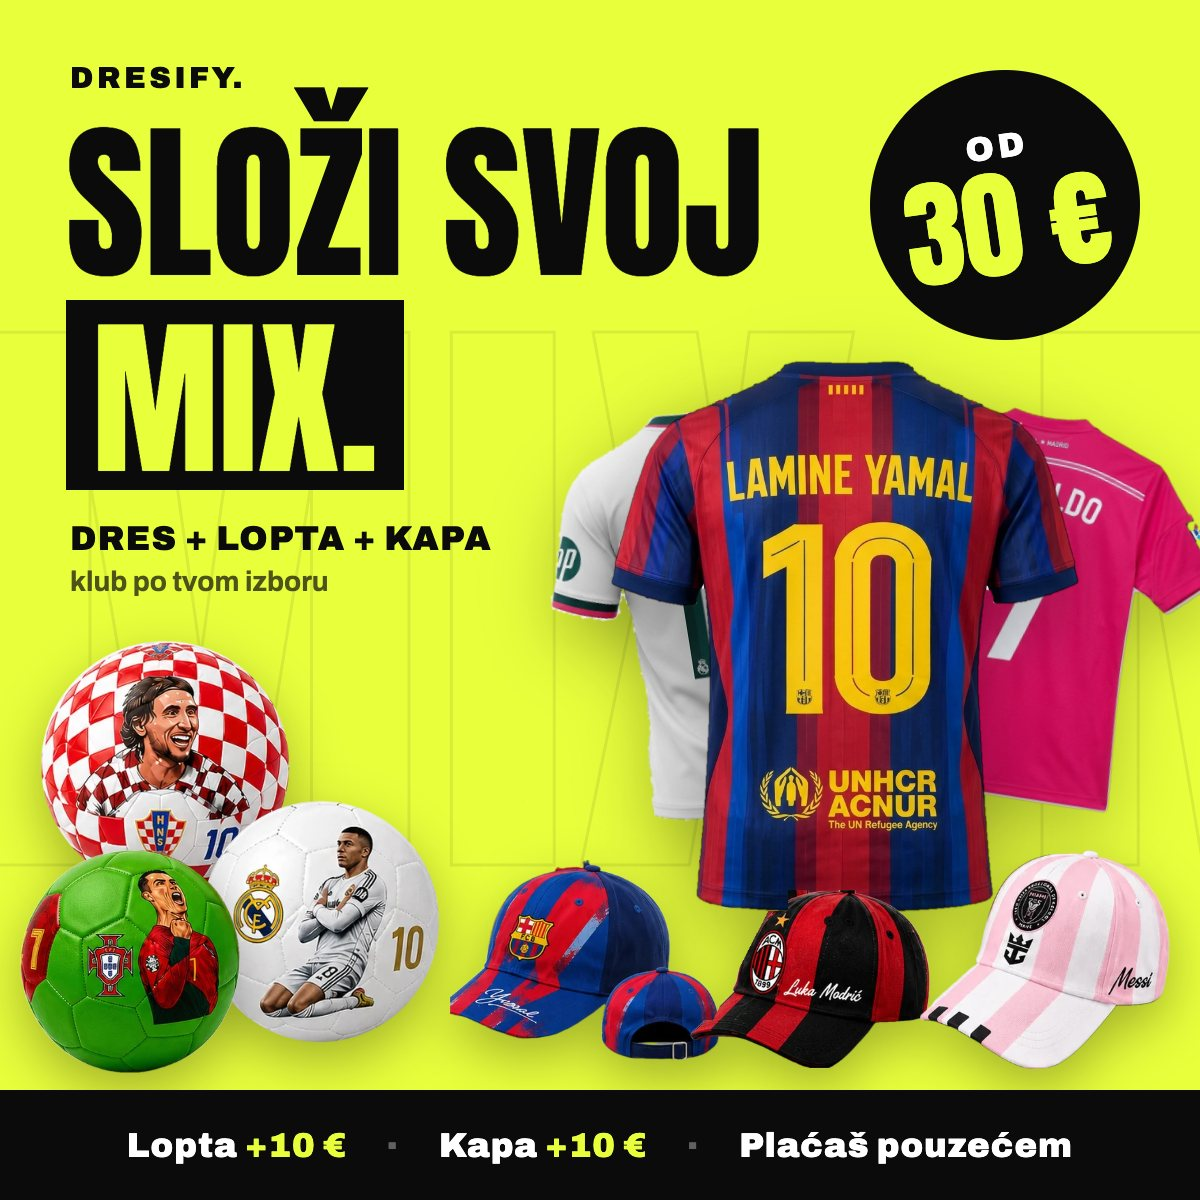
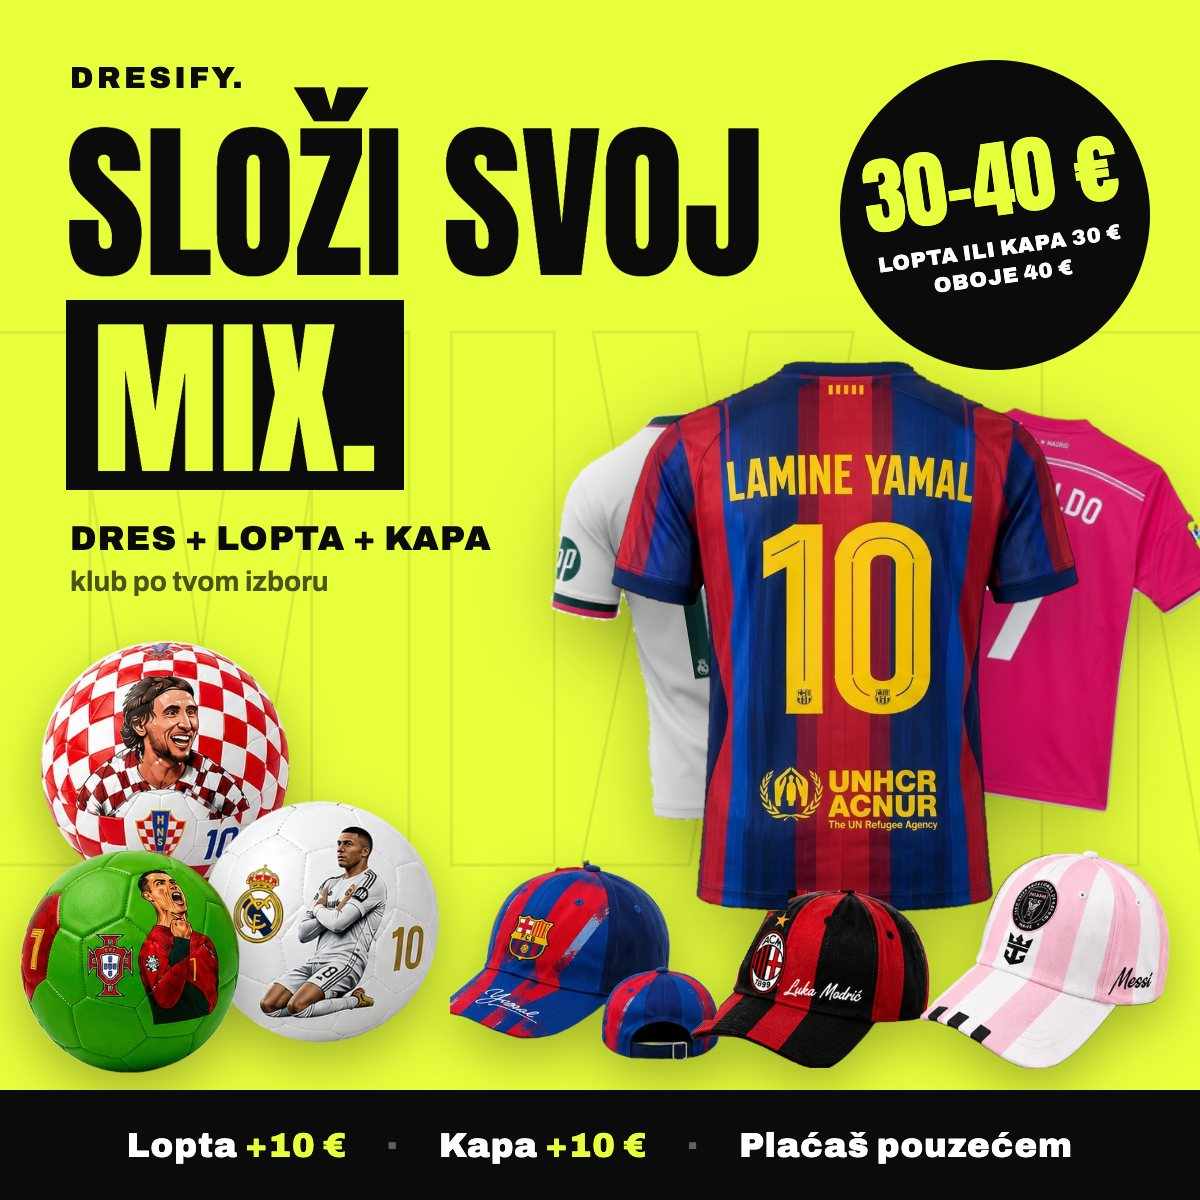
mix: popravci iz provjere (cijena dodataka uz zadanu cijenu dresa, točno prepoznavanje '+ lopta Klub', klijent ne može upisati dodatke, bez rasprodanih), cijene kao raspon 30–40 €, mix i uz trenirke

Changed region(s): [[0.6783, 0.0308, 0.9558, 0.3083]]

diff --git a/app/slozi-mix/page.tsx b/app/slozi-mix/page.tsx
@@ -2,7 +2,7 @@ import Image from "next/image";
 
 import { Breadcrumbs } from "@/components/site/breadcrumbs";
 import { MixJerseyChooser, type MixJersey } from "@/components/site/mix-jersey-chooser";
-import { jerseys } from "@/lib/data/jerseys";
+import { getJerseySizeOptions, jerseys } from "@/lib/data/jerseys";
 import { getJerseyGallery } from "@/lib/data/jersey-media";
 import { getCatalogProducts } from "@/lib/data/product-overrides";
 import { MIX_ADDON_PRICE_EUR, MIX_CLUBS, isMixEligible, mixImage } from "@/lib/mix";
@@ -12,13 +12,19 @@ import { repairText } from "@/lib/utils";
 export const metadata = buildMetadata({
   title: "Složi svoj mix — dres + lopta + kapa po izboru",
   description:
-    "Složi svoj nogometni mix: odaberi dres, pa dodaj loptu i/ili kapu kluba po želji. Dres + lopta ili kapa 30 €, dres + oboje 40 €. Plaćanje pouzećem, dostava po cijeloj Hrvatskoj.",
+    "Složi svoj nogometni mix: odaberi dres ili trenirku, pa dodaj loptu i/ili kapu kluba po želji. Dres + lopta ili kapa 30 €, dres + oboje 40 €. Plaćanje pouzećem, dostava po cijeloj Hrvatskoj.",
   path: "/slozi-mix",
   keywords: ["dres i lopta", "dres lopta kapa", "nogometni set", "poklon za nogometaša", "složi svoj mix"]
 });
 
 export default async function SloziMixPage() {
-  const products = (await getCatalogProducts(jerseys)).filter(isMixEligible);
+  // Samo dresovi kojima je ostala barem jedna veličina (rasprodani nemaju mix izbor).
+  const hasStock = (p: Parameters<typeof getJerseySizeOptions>[0]) => {
+    const o = getJerseySizeOptions(p);
+    const sizes = [...(o.adultsOutOfStock ? [] : o.adults), ...(o.kidsOutOfStock ? [] : o.kids)];
+    return sizes.some((s) => !o.soldOutSizes.includes(s));
+  };
+  const products = (await getCatalogProducts(jerseys)).filter((p) => isMixEligible(p) && hasStock(p));
   const list: MixJersey[] = products.map((p) => ({
     slug: p.slug,
     klub: repairText(p.klub),
@@ -38,14 +44,16 @@ export default async function SloziMixPage() {
               Složi svoj <span className="text-accent">mix</span>
             </h1>
             <p className="mt-4 text-base leading-7 text-white/65">
-              Odaberi bilo koji dres, pa mu dodaj loptu i/ili kapu — klub biraš sam. Savršen poklon za malog ili velikog navijača.
+              Odaberi bilo koji dres ili trenirku, pa dodaj loptu i/ili kapu — klub biraš sam. Savršen poklon za malog ili velikog navijača.
             </p>
             <div className="mt-5 grid max-w-md grid-cols-2 gap-2 text-sm">
               {[
                 ["Dres + lopta ili kapa", "30 €"],
                 ["Dres + lopta + kapa", "40 €"],
                 ["Dugi rukav + jedno", "40 €"],
-                ["Dugi rukav + oboje", "50 €"]
+                ["Dugi rukav + oboje", "50 €"],
+                ["Trenirka + jedno", "45 €"],
+                ["Trenirka + oboje", "55 €"]
               ].map(([l, p]) => (
                 <div key={l} className="rounded-[10px] border border-white/10 bg-[#0d0d0d] px-3 py-2.5">
                   <p className="text-white/60">{l}</p>
@@ -73,7 +81,7 @@ export default async function SloziMixPage() {
           ))}
         </div>
 
-        <h2 className="mt-10 font-heading text-2xl uppercase text-white">1. Odaberi dres</h2>
+        <h2 className="mt-10 font-heading text-2xl uppercase text-white">1. Odaberi dres ili trenirku</h2>
         <p className="mb-4 mt-1 text-sm text-white/55">Klikni dres → odaberi veličinu → dodaj loptu i/ili kapu.</p>
         <MixJerseyChooser jerseys={list} />
       </div>

diff --git a/app/api/orders/route.ts b/app/api/orders/route.ts
@@ -4,7 +4,7 @@ import { auth } from "@clerk/nextjs/server";
 import { parseOrderPayload } from "@/lib/orders";
 import { lookupPromo } from "@/lib/promo-db";
 import { phoneKey } from "@/lib/utils";
-import { SHIPPING_PRICE_EUR, FREE_SHIPPING_THRESHOLD_EUR } from "@/lib/site";
+import { SHIPPING_PRICE_EUR, FREE_SHIPPING_THRESHOLD_EUR, JERSEY_PRICE_EUR } from "@/lib/site";
 import { sendOrderNotifications, sendAdminTelegramText } from "@/lib/notifications";
 import { sendNewOrderPush } from "@/lib/push";
 import { logOrderToSheet } from "@/lib/sheets";
@@ -15,7 +15,7 @@ import { normalizeIgHandle, autoEnterGiveaway } from "@/lib/giveaway";
 import { sendCapiPurchase } from "@/lib/meta-capi";
 import { decrementSizeStock } from "@/lib/stock";
 import { bustCache } from "@/lib/cache-tags";
-import { MIX_ADDON_PRICE_EUR, addonCount, addonsText, isMixEligible, type MixAddons } from "@/lib/mix";
+import { MIX_ADDON_PRICE_EUR, addonCount, addonsText, isMixEligible, stripAddonText, type MixAddons } from "@/lib/mix";
 
 export const runtime = "nodejs";
 
@@ -47,7 +47,11 @@ function repriceItems(items: { slug: string; unitPrice: number; addons?: MixAddo
   for (const it of items) {
     const p = it.slug ? products.get(it.slug) : undefined;
     // Mix: lopta/kapa +10 € svaka — cijena kataloga + dodaci (applyMixAddons ih je već provjerio).
-    const price = typeof p?.price === "number" ? p.price + addonCount(it.addons) * MIX_ADDON_PRICE_EUR : undefined;
+    // Većina dresova nema upisanu cijenu (= zadanih 20 €), pa za mix stavke uzimamo
+    // zadanu — inače bi klijentska cijena prošla bez provjere dodataka.
+    const n = addonCount(it.addons);
+    const base = typeof p?.price === "number" ? p.price : p && n ? JERSEY_PRICE_EUR : undefined;
+    const price = typeof base === "number" ? base + n * MIX_ADDON_PRICE_EUR : undefined;
     if (typeof price === "number" && price > 0 && price !== it.unitPrice) {
       it.unitPrice = price;
       changed = true;
@@ -61,6 +65,7 @@ function repriceItems(items: { slug: string; unitPrice: number; addons?: MixAddo
 // pa ga vide admin, mailovi, Sheets i obračun nabave (mixAddonsInText).
 function applyMixAddons(items: { slug: string; igrac: string; addons?: MixAddons }[], products: FreshProducts) {
   for (const it of items) {
+    it.igrac = stripAddonText(it.igrac || ""); // dodatke upisuje SAMO server (i naplati ih)
     if (!addonCount(it.addons)) { it.addons = undefined; continue; }
     const p = (it.slug ? products.get(it.slug) : undefined) ?? (it.slug ? getJerseyBySlug(it.slug) : undefined);
     if (!p || !isMixEligible(p)) { it.addons = undefined; continue; }

diff --git a/lib/mix.ts b/lib/mix.ts
@@ -47,17 +47,29 @@ export function addonsText(a?: MixAddons) {
   return s;
 }
 
+// Točan zapis dodatka ("+ lopta Barcelona") — vezan uz NAZIV KLUBA, da se ne
+// poklopi s nazivima kompleta "(dres + hlačice + lopta + kapa)".
+const LABELS = MIX_CLUBS.map((c) => c.label.replace(/[.*+?^${}()|[\]\\]/g, "\\$&")).join("|");
+const ADDON_RE = { lopta: new RegExp(`\\+ lopta (?:${LABELS})`, "i"), kapa: new RegExp(`\\+ kapa (?:${LABELS})`, "i") };
+const ADDON_STRIP_RE = new RegExp(`\\s*\\+ (?:lopta|kapa) (?:${LABELS})`, "gi");
+
+// Svi točni zapisi za upit u bazi (Prisma contains), npr. "+ lopta Barcelona".
+export const mixAddonPhrases = (kind: MixKind) => MIX_CLUBS.map((c) => `+ ${kind} ${c.label}`);
+
 // Za obračun nabave iz spremljenih stavki (igrac tekst).
 export function mixAddonsInText(text?: string | null) {
   const t = text || "";
-  return { lopta: /\+ lopta /i.test(t) ? 1 : 0, kapa: /\+ kapa /i.test(t) ? 1 : 0 };
+  return { lopta: ADDON_RE.lopta.test(t) ? 1 : 0, kapa: ADDON_RE.kapa.test(t) ? 1 : 0 };
 }
 
-// Mix ide samo uz obične dresove i dugi rukav — ne uz komplete (već imaju
-// loptu i kapu), trenirke, streetwear ni mystery.
+// Ukloni zapis dodataka koji je došao od klijenta (server ga dodaje sam, samo naplaćen).
+export const stripAddonText = (text: string) => text.replace(ADDON_STRIP_RE, "");
+
+// Mix ide uz obične dresove, dugi rukav i trenirke — ne uz komplete (već imaju
+// loptu i kapu), streetwear ni mystery.
 export function isMixEligible(p: { slug: string; liga?: string; category?: string }) {
   if (p.liga === "Komplet") return false;
-  if (p.category === "trenirka" || p.category === "streetwear") return false;
+  if (p.category === "streetwear") return false;
   if (/mystery/i.test(p.slug)) return false;
   return true;
 }

diff --git a/lib/admin-metrics.ts b/lib/admin-metrics.ts
@@ -4,7 +4,7 @@ import { prisma } from "@/lib/prisma";
 import { jerseys } from "@/lib/data/jerseys";
 import { getSettingsFresh } from "@/lib/settings";
 import { phoneKey } from "@/lib/utils";
-import { mixAddonsInText } from "@/lib/mix";
+import { mixAddonPhrases, mixAddonsInText } from "@/lib/mix";
 import { COST_KAPA_EUR, COST_LOPTA_EUR } from "@/lib/site";
 
 const DAY = 86_400_000;
@@ -131,8 +131,8 @@ export async function getDashboardMetrics() {
       ts.length ? prisma.orderItem.count({ where: { order: orderWhere, slug: { in: ts } } }) : Promise.resolve(0),
       prisma.order.aggregate({ _sum: { discount: true }, where: orderWhere }),
       // "Složi svoj mix": lopta/kapa zapisane u igrac stavke ("+ lopta X", "+ kapa Y").
-      prisma.orderItem.count({ where: { order: orderWhere, igrac: { contains: "+ lopta ", mode: "insensitive" } } }),
-      prisma.orderItem.count({ where: { order: orderWhere, igrac: { contains: "+ kapa ", mode: "insensitive" } } })
+      prisma.orderItem.count({ where: { order: orderWhere, OR: mixAddonPhrases("lopta").map((ph) => ({ igrac: { contains: ph, mode: "insensitive" as const } })) } }),
+      prisma.orderItem.count({ where: { order: orderWhere, OR: mixAddonPhrases("kapa").map((ph) => ({ igrac: { contains: ph, mode: "insensitive" as const } })) } })
     ]);
     const count = all._count;
     const revenue = all._sum.unitPrice ?? 0;

diff --git a/lib/utils.ts b/lib/utils.ts
@@ -1,6 +1,7 @@
 import { type ClassValue, clsx } from "clsx";
 
 import { CURRENCY_LABEL, JERSEY_PRICE_EUR, SITE_URL, WHATSAPP_URL } from "@/lib/site";
+import { addonsText, type MixAddons } from "@/lib/mix";
 
 export function cn(...inputs: ClassValue[]) {
   return clsx(inputs);
@@ -159,14 +160,14 @@ export function createCartInquiryMessage(
 }
 
 // Što je zapravo artikl — po kategoriji, ne po "segmentu" (trenirka nije dres).
-export function cartItemTypeLabel(item: { segmentLabel: string; category?: string }) {
-  if (item.category === "trenirka") return "trenirka (jakna + hlače)";
+export function cartItemTypeLabel(item: { segmentLabel: string; category?: string; addons?: MixAddons }) {
+  if (item.category === "trenirka") return `trenirka (jakna + hlače)${addonsText(item.addons)}`;
   if (item.category === "streetwear") return "streetwear";
   return item.segmentLabel.toLowerCase();
 }
 
 export function createCartOrderSummary(
-  items: Array<{ klub: string; igrac: string; size: string; segmentLabel: string; category?: string; price?: number }>
+  items: Array<{ klub: string; igrac: string; size: string; segmentLabel: string; category?: string; price?: number; addons?: MixAddons }>
 ) {
   if (!items.length) {
     return "";

diff --git a/components/product/mix-picker.tsx b/components/product/mix-picker.tsx
@@ -101,7 +101,7 @@ export function MixPicker({ product, selectedSize, segment, segmentLabel, imageS
           {row("kapa", "Kapa")}
 
           <div className="mt-4 space-y-1 text-sm text-white/70">
-            <div className="flex justify-between"><span>Dres</span><span>{base} €</span></div>
+            <div className="flex justify-between"><span>{product.category === "trenirka" ? "Trenirka" : "Dres"}</span><span>{base} €</span></div>
             {addons.lopta && <div className="flex justify-between"><span>Lopta {MIX_CLUBS.find((c) => c.key === addons.lopta)?.label}</span><span>+{MIX_ADDON_PRICE_EUR} €</span></div>}
             {addons.kapa && <div className="flex justify-between"><span>Kapa {MIX_CLUBS.find((c) => c.key === addons.kapa)?.label}</span><span>+{MIX_ADDON_PRICE_EUR} €</span></div>}
             <div className="flex justify-between border-t border-white/10 pt-2 text-base font-bold text-white"><span>Ukupno</span><span>{total} €</span></div>

diff --git a/components/site/mix-promo-card.tsx b/components/site/mix-promo-card.tsx
@@ -22,8 +22,8 @@ export function MixPromoCard() {
       <div className="flex flex-1 flex-col gap-1 p-3 sm:p-4">
         <p className="text-[11px] font-semibold uppercase tracking-[0.2em] text-accent">Novo</p>
         <h3 className="text-sm font-semibold uppercase leading-tight text-white sm:text-base">Složi svoj mix</h3>
-        <p className="text-xs text-white/55">Dres + lopta i/ili kapa — klub po izboru</p>
-        <p className="mt-auto pt-2 font-heading text-lg text-accent">od 30 €</p>
+        <p className="text-xs text-white/55">Dres + lopta i/ili kapa — klub po izboru. Jedno 30 €, oboje 40 €.</p>
+        <p className="mt-auto pt-2 font-heading text-lg text-accent">30–40 €</p>
       </div>
     </Link>
   );

diff --git a/components/site/mix-jersey-chooser.tsx b/components/site/mix-jersey-chooser.tsx
@@ -37,7 +37,7 @@ export function MixJerseyChooser({ jerseys }: { jerseys: MixJersey[] }) {
             <div className="p-3">
               <p className="truncate text-xs uppercase tracking-wide text-white/50">{j.klub}</p>
               <p className="truncate text-sm font-semibold text-white">{j.igrac}</p>
-              <p className="mt-1 text-xs text-accent">Dres {j.price} € → mix od {j.price + 10} €</p>
+              <p className="mt-1 text-xs text-accent">Mix {j.price + 10}–{j.price + 20} € · dres {j.price} €</p>
             </div>
           </Link>
         ))}
